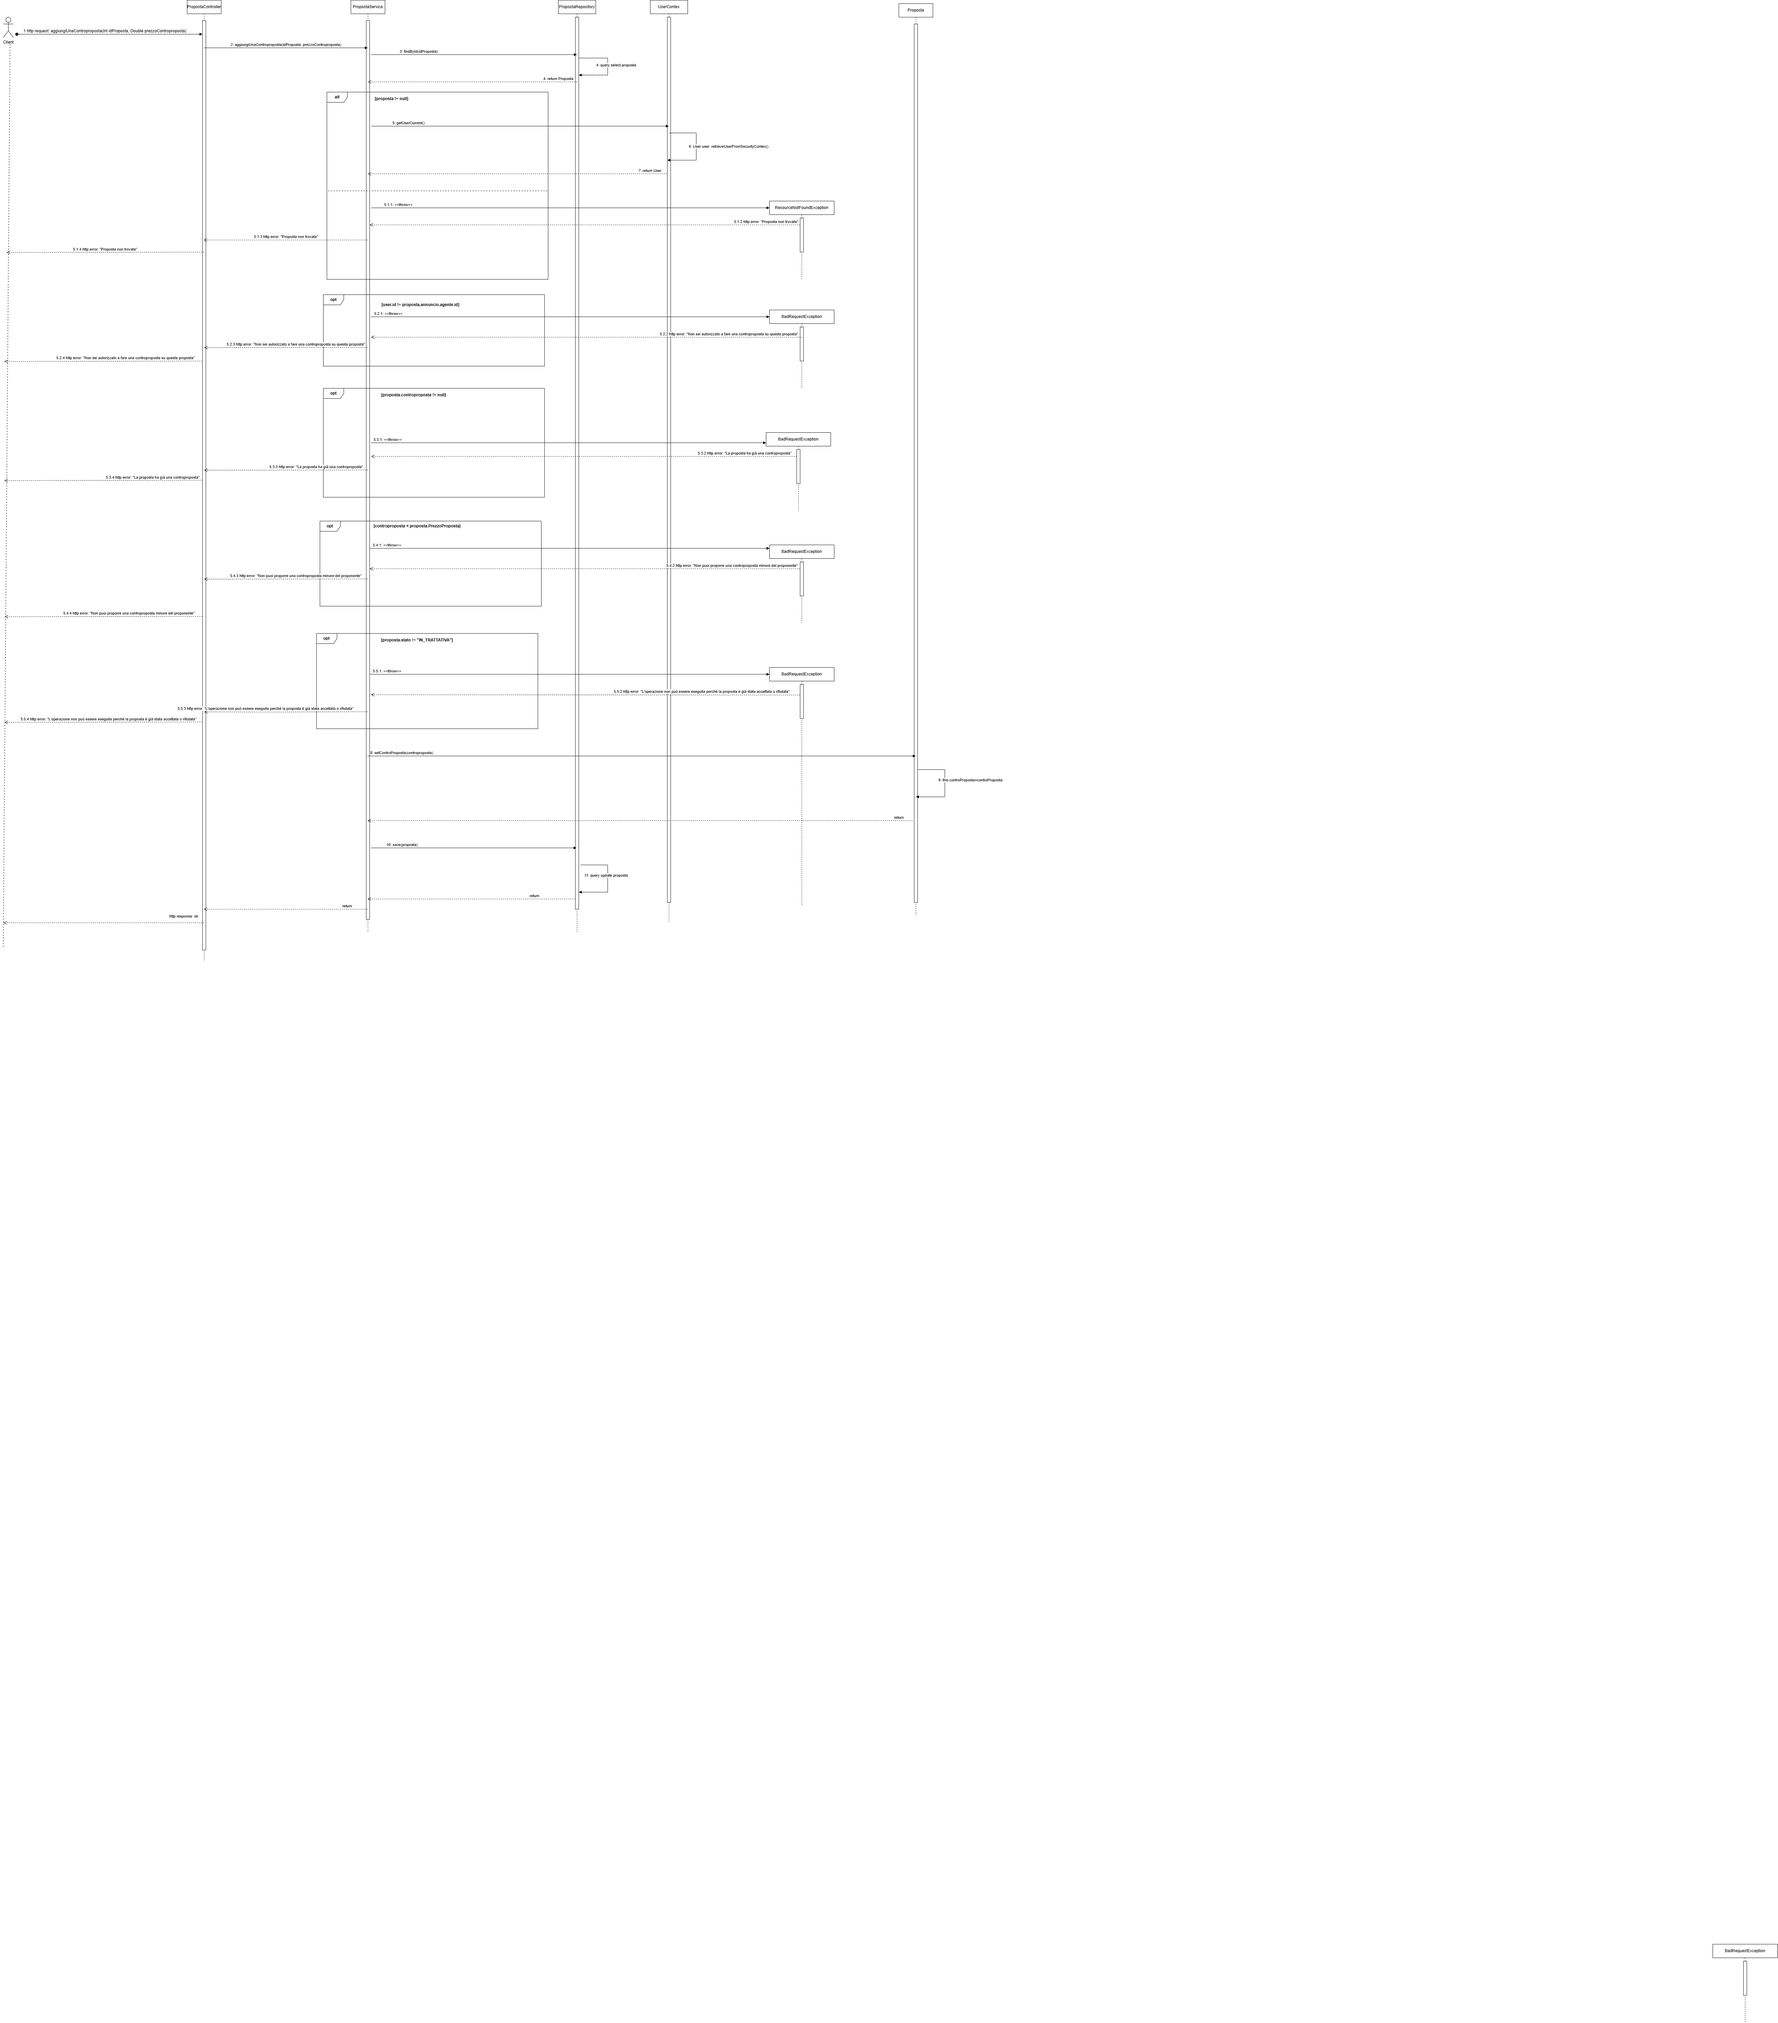
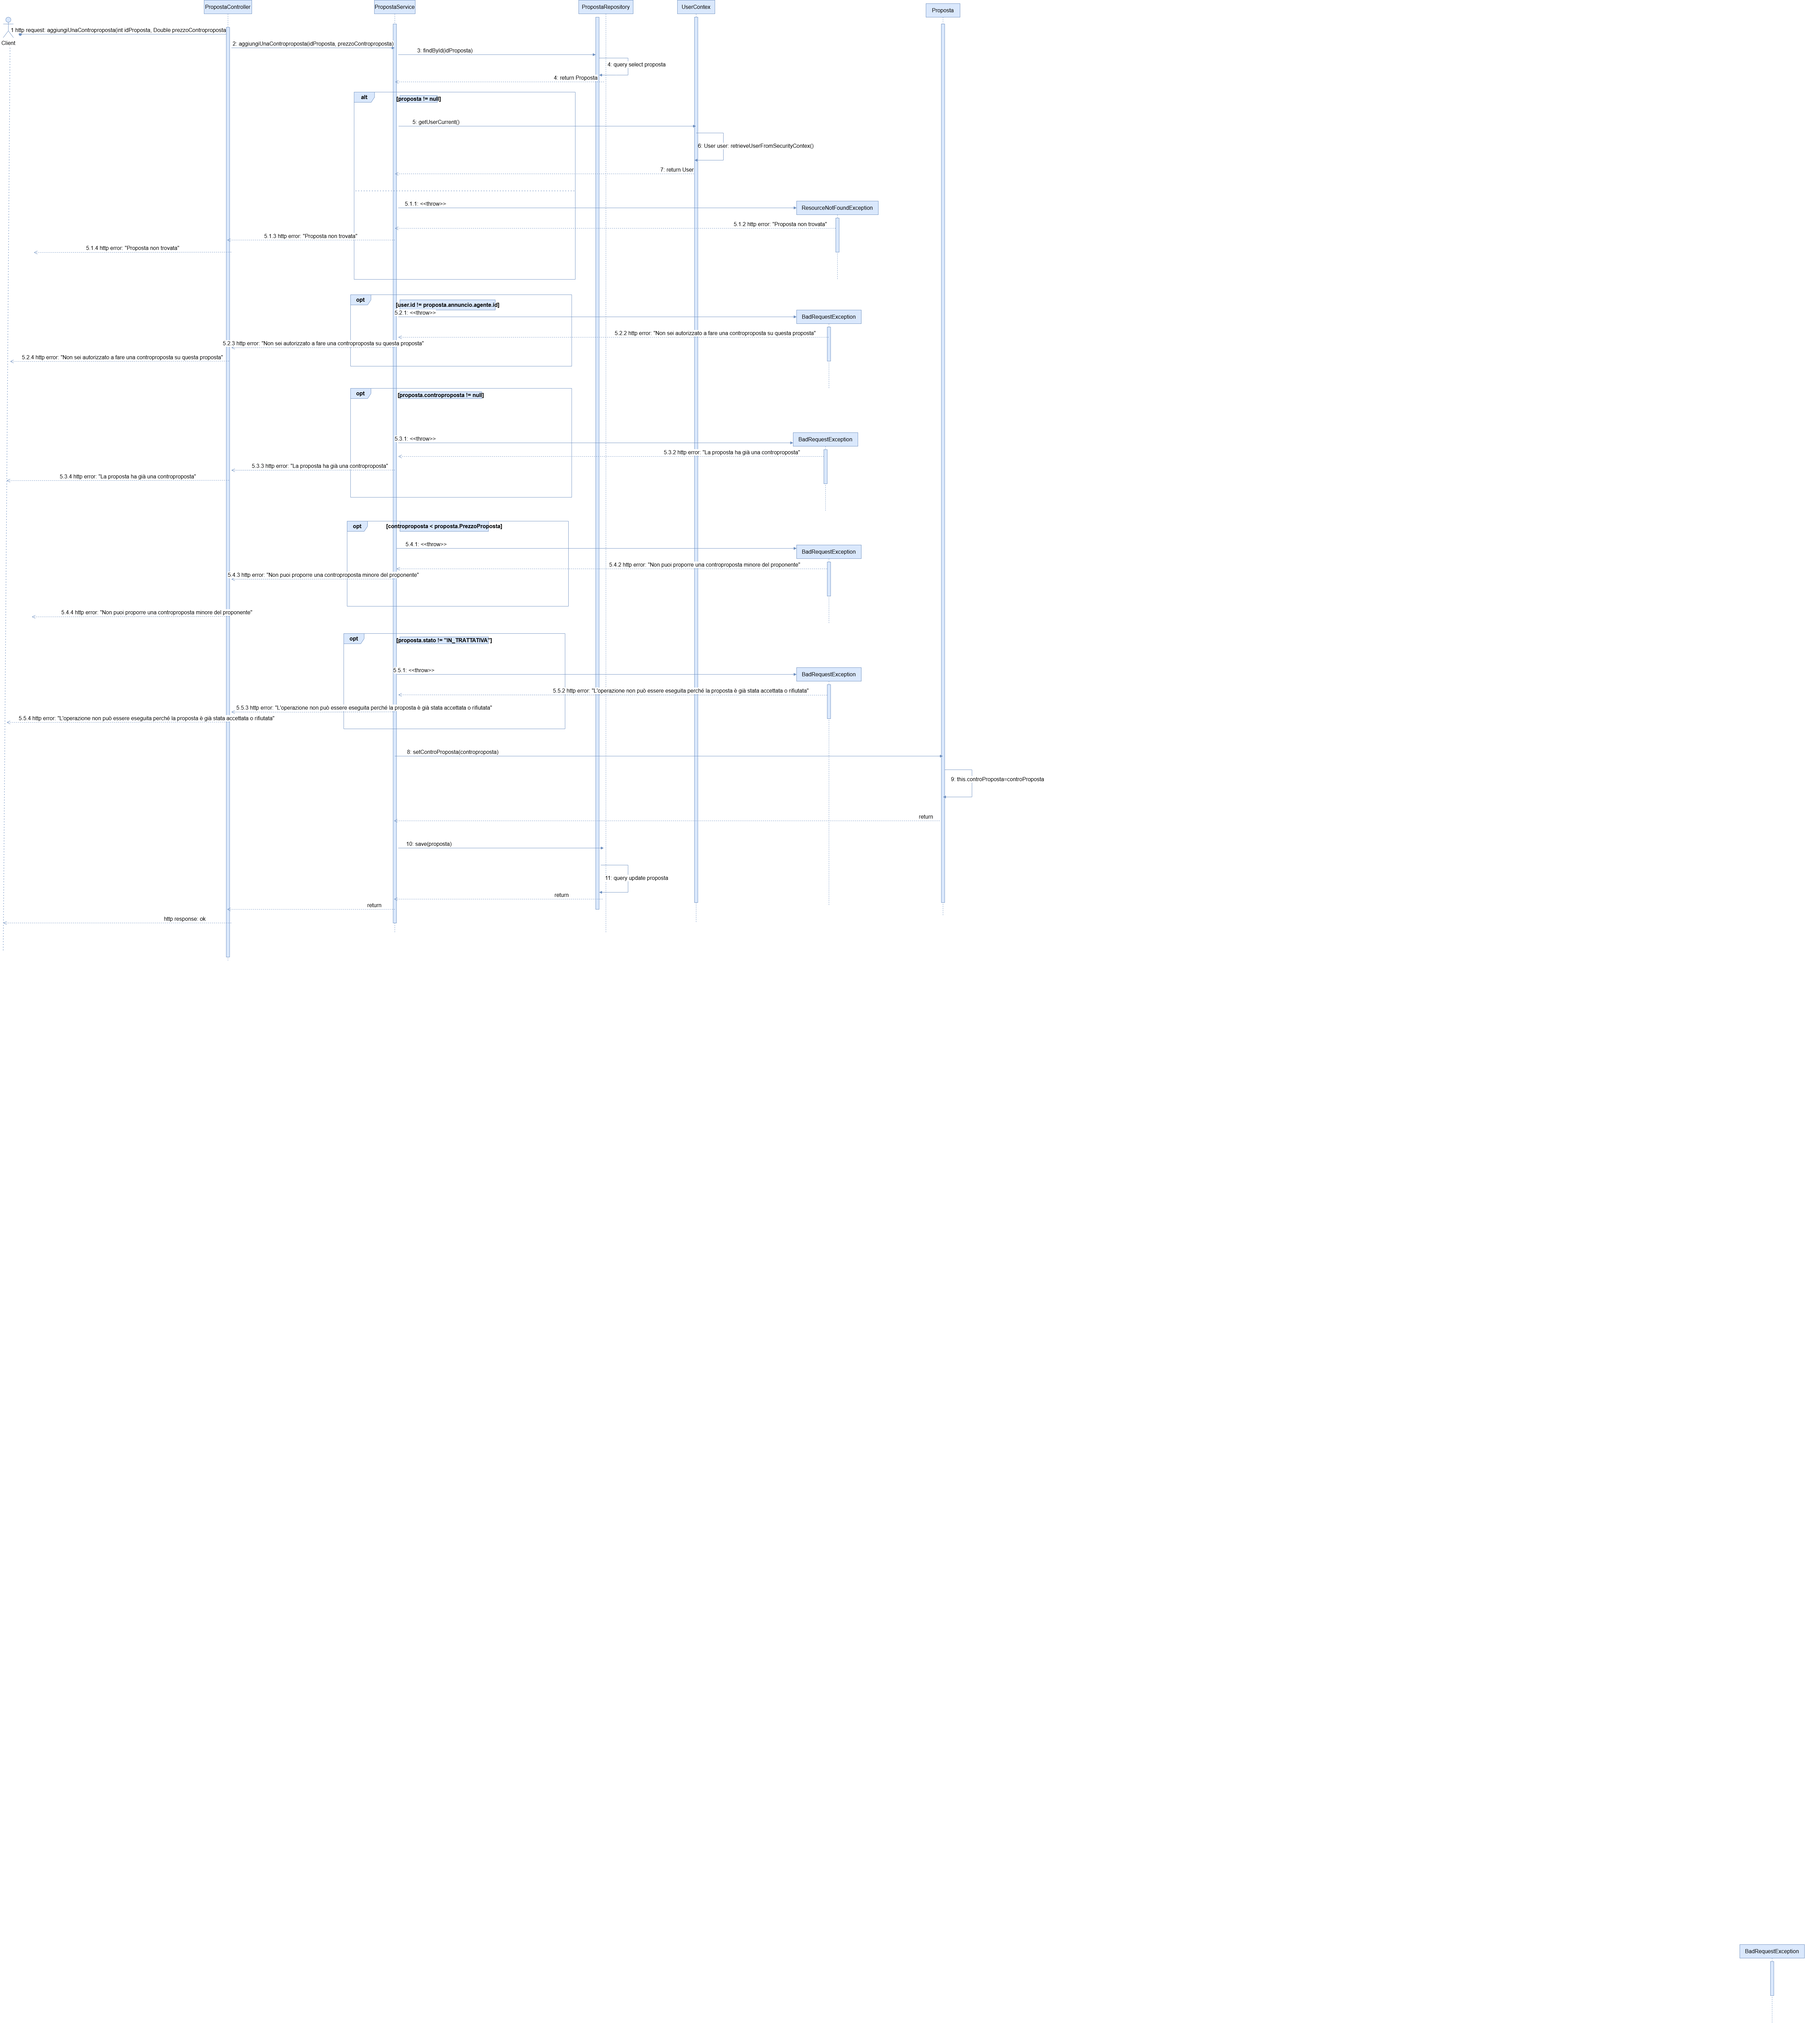
Modificati gli stili dei sequence diagram

diff --git a/Documentazione/Testing e valutazione dell’usabilita/Progettazione e conduzione di un esperimento con utenti reali/Descrizione dei soggetti reclutati e metrice adottate.tex b/Documentazione/Testing e valutazione dell’usabilita/Progettazione e conduzione di un esperimento con utenti reali/Descrizione dei soggetti reclutati e metrice adottate.tex
@@ -51,14 +51,7 @@ dove \( U_{\text{completati}} \) è il numero di utenti che hanno completato il 
 dove \( E_i \) è il numero di errori commessi dall'utente \( i \) durante il task.
 
 \vspace{0.5cm} % Aggiunge spazio prima della sezione
-\textbf{4. Customer Satisfaction Score}
-\begin{equation}
-	CSAT = \frac{\sum_{i=1}^{n} S_i}{n} \times 100
-\end{equation}
-dove \( S_i \) è il punteggio di soddisfazione dato dall'utente \( i \) e \( n \) è il numero totale di risposte raccolte.
-
-\vspace{0.5cm} % Aggiunge spazio prima della sezione
-\textbf{5. System Usability Scale (SUS)}
+\textbf{4. System Usability Scale (SUS)}
 \newline
 \newline
 Il \textbf{System Usability Scale (SUS)} è un metodo standardizzato, introdotto da \textbf{John Brooke} nel 1986, utilizzato per misurare l’usabilità di un prodotto attraverso un questionario composto da \textbf{10 affermazioni}. Gli utenti rispondono utilizzando una \textbf{scala Likert a 5 punti}, esprimendo il loro grado di accordo o disaccordo. Il punteggio complessivo, che varia da 0 a 100, fornisce una misura quantitativa dell’usabilità percepita, consentendo di confrontare i risultati con benchmark consolidati.
@@ -304,11 +297,6 @@ Per ogni utente è stato realizzato un questionario apposito inerente ai task co
 	
 \end{enumerate}
 
-%%%%%%%%%%%%%%%%%%%%%%%%%%%%%%%%%%%%%%%%%%%%%%%%%%%%%%%%%%%%%%%%%%%%%%%%%%%%%%%%%
-
-\begin{comment}
-	
-\subsubsection{Risultato SUS ottenuto attraverso i feedback raccolti}
 Il System Usability Scale (SUS) viene calcolato seguendo questi passaggi:
 
 \begin{enumerate}
@@ -348,118 +336,3 @@ Il System Usability Scale (SUS) viene calcolato seguendo questi passaggi:
 	Il punteggio finale sarà compreso tra 0 e 100, ma non rappresenta una percentuale.
 	
 \end{enumerate}
-	
-Di seguito presentiamo il questionario utilizzato per valutare il mockup del processo di creazione di un annuncio immobiliare. Ogni domanda prevede cinque opzioni di risposta:
-
-\begin{itemize}
-	\item Per niente d’accordo
-	\item Poco d’accordo
-	\item Né d’accordo né in disaccordo
-	\item Abbastanza d’accordo
-	\item Molto d’accordo
-\end{itemize}
-Ai fini del calcolo del punteggio \textbf{SUS}, alle risposte viene assegnato un valore da \textbf{1} a \textbf{5}, dove la prima opzione corrisponde a 1 punto e l’ultima a 5 punti.
-
-\textbf{Interpretazione del punteggio SUS}
-
-\begin{itemize}
-	\item \textbf{Sopra 80} → Ottima usabilità
-	\item \textbf{Tra 70 e 80} → Buona usabilità
-	\item \textbf{Tra 50 e 70} → Accettabile, ma migliorabile
-	\item \textbf{Sotto 50} → Problemi di usabilità significativi
-\end{itemize}
-Il questionario è stato compilato da quattro agenti immobiliari, i principali attori di questo caso d’uso. Ciascun agente proviene da un’agenzia immobiliare diversa e appartiene a una fascia d’età differente, al fine di garantire un campione più eterogeneo e realistico. 
-
-\vspace{0.5cm}
-
-\textbf{Utente 1:}
-\begin{itemize}
-	\item \textbf{Risposte a domande dispari}
-	\begin{itemize}
-		\item Domanda 1: molto d'accordo = 5-1 = 4
-		\item Domanda 3: molto d'accordo = 5-1 = 4
-		\item Domanda 5: molto d'accordo = 5-1 = 4
-		\item Domanda 7: molto d'accordo = 5-1 = 4
-		\item Domanda 9: molto d'accordo = 5-1 = 4
-	\end{itemize}
-	\item \textbf{Risposte a domande pari}
-	\begin{itemize}
-		\item Domanda 2: per niente d'accordo = 5-1 = 4
-		\item Domanda 4: poco d'accordo = 5-2 = 3
-		\item Domanda 6: poco d'accordo = 5-2 = 3
-		\item Domanda 8: per niente d'accordo = 5-1 = 4
-		\item Domanda 10:per niente d'accordo = 5-1 = 4
-	\end{itemize}
-	
-	\item \textbf{Totale punteggio utente 1: } 38*2.5 = \textbf{95}
-	
-\end{itemize}
-\textbf{Utente 2:}
-\begin{itemize}
-	\item \textbf{Risposte a domande dispari}
-	\begin{itemize}
-		\item Domanda 1: molto d'accordo = 5-1 = 4
-		\item Domanda 3: molto d'accordo = 5-1 = 4
-		\item Domanda 5: molto d'accordo = 5-1 = 4
-		\item Domanda 7: abbastanza d'accordo = 4-1 = 3
-		\item Domanda 9: molto d'accordo = 5-1 = 4
-	\end{itemize}
-	\item \textbf{Risposte a domande pari}
-	\begin{itemize}
-		\item Domanda 2: per niente d'accordo = 5-1 = 4
-		\item Domanda 4: per niente d'accordo = 5-1 = 4
-		\item Domanda 6: poco d'accordo = 5-2 = 3
-		\item Domanda 8:né d'accordo né in disaccordo = 5-3 = 2
-		\item Domanda 10:per niente d'accordo = 5-1 = 4
-	\end{itemize}
-	
-	\item \textbf{Totale punteggio utente 2: } 36*2.5 = \textbf{90}
-	
-\end{itemize}
-\textbf{Utente 3:}
-\begin{itemize}
-	\item \textbf{Risposte a domande dispari}
-	\begin{itemize}
-		\item Domanda 1:abbastanza d'accordo = 4-1 = 3
-		\item Domanda 3: molto d'accordo = 5-1 = 4
-		\item Domanda 5: molto d'accordo = 5-1 = 4
-		\item Domanda 7: molto d'accordo = 5-1 = 4
-		\item Domanda 9: molto d'accordo = 5-1 = 4
-	\end{itemize}
-	\item \textbf{Risposte a domande pari}
-	\begin{itemize}
-		\item Domanda 2: poco d'accordo = 5-2 = 3
-		\item Domanda 4: poco d'accordo= 5-2 = 3
-		\item Domanda 6: per niente d'accordo = 5-1 = 4
-		\item Domanda 8: poco d'accordo = 5-2 = 3
-		\item Domanda 10: per niente d'accordo = 5-1 = 4
-	\end{itemize}
-	
-	\item \textbf{Totale punteggio utente 3: } 36*2.5 = \textbf{90}
-	
-\end{itemize}
-\textbf{Utente 4:}
-\begin{itemize}
-	\item \textbf{Risposte a domande dispari}
-	\begin{itemize}
-		\item Domanda 1: molto d'accordo = 5-1 = 4
-		\item Domanda 3: molto d'accordo = 5-1 = 4
-		\item Domanda 5: né d'accordo né in dissacordo = 3-1 = 2
-		\item Domanda 7: molto d'accordo = 5-1 = 4
-		\item Domanda 9: molto d'accordo = 5-1 = 4
-	\end{itemize}
-	\item \textbf{Risposte a domande pari}
-	\begin{itemize}
-		\item Domanda 2: poco d'accordo = 5-2 = 3
-		\item Domanda 4: né 'accordo né in disaccordo = 5-3 = 2
-		\item Domanda 6:per niente d'accordo = 5-1 = 4
-		\item Domanda 8: per niente d'accordo = 5-1 = 4
-		\item Domanda 10:per niente d'accordo = 5-1 = 4
-	\end{itemize}
-	
-	\item \textbf{Totale punteggio utente 4: } 35*2.5= \textbf{87.5}
-	
-\end{itemize}
-Media punteggio SUS = 95+90+90+87.5/4 = \textbf{90.62}. Il punteggio è nettamente superiore a 80 il che indica un \textbf{ottima usabilità}.
-
-\end{comment}

diff --git a/Documentazione/Testing e valutazione dell’usabilita/Progettazione e conduzione di un esperimento con utenti reali/Risultati dell'esperimento.tex b/Documentazione/Testing e valutazione dell’usabilita/Progettazione e conduzione di un esperimento con utenti reali/Risultati dell'esperimento.tex
@@ -1,1 +1,35 @@
 \subsection{Risultati dell'esperimento}
+
+Presentiamo i risultati dell'esperimento
+
+
+\begin{figure}[H]
+	\centering
+	\includegraphics[width=\linewidth]{Immagini/esperimento finale/tabella risultati.png}
+	\caption[Risultati esperimento]{Risultati esperimento}
+\end{figure}
+
+\textbf{1. Tempo medio per completare l'esperimento}
+\begin{equation}
+	T_{\text{medio}} = \frac{9+6+6+4+10}{5} = 7 min
+\end{equation}
+
+\vspace{0.5cm} % Aggiunge spazio prima della sezione
+\textbf{2. Tasso di completamento dell'esperimento}
+\begin{equation}
+	T_{\text{completamento}} = \frac{5}{5} \times 100 = 100\%
+\end{equation}
+dove \( U_{\text{completati}} \) 
+
+\vspace{0.5cm} % Aggiunge spazio prima della sezione
+\textbf{3. Errore Commesso Medio durante l'esperimento}
+\begin{equation}
+	E_{\text{medio}} = \frac{1}{5} = 0,2
+\end{equation}
+
+\vspace{0.5cm} % Aggiunge spazio prima della sezione
+\textbf{4. Punteggio medio SUS}
+\begin{equation}
+	SUS_{\text{medio}} = \frac{95+90+90+87.5+97.5}{5} = 92
+\end{equation}
+	
